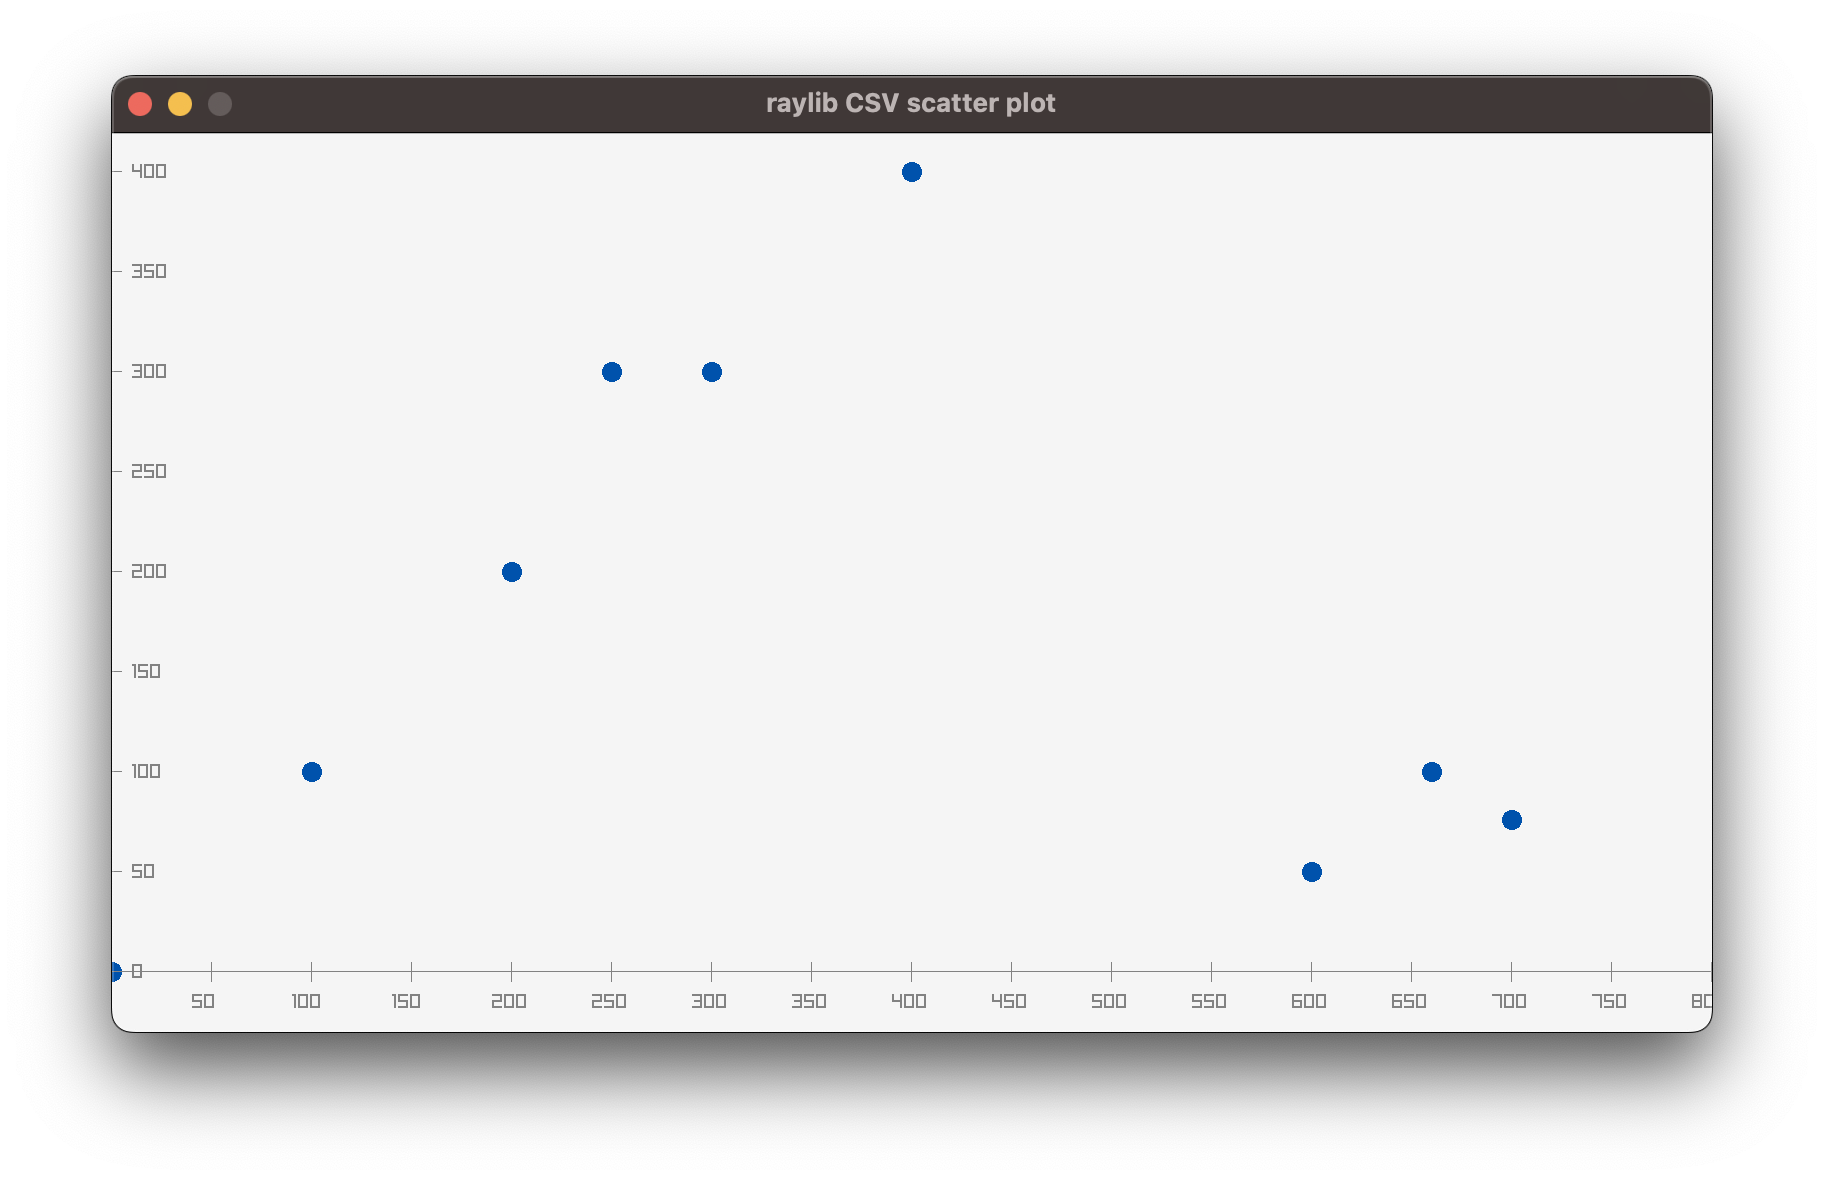
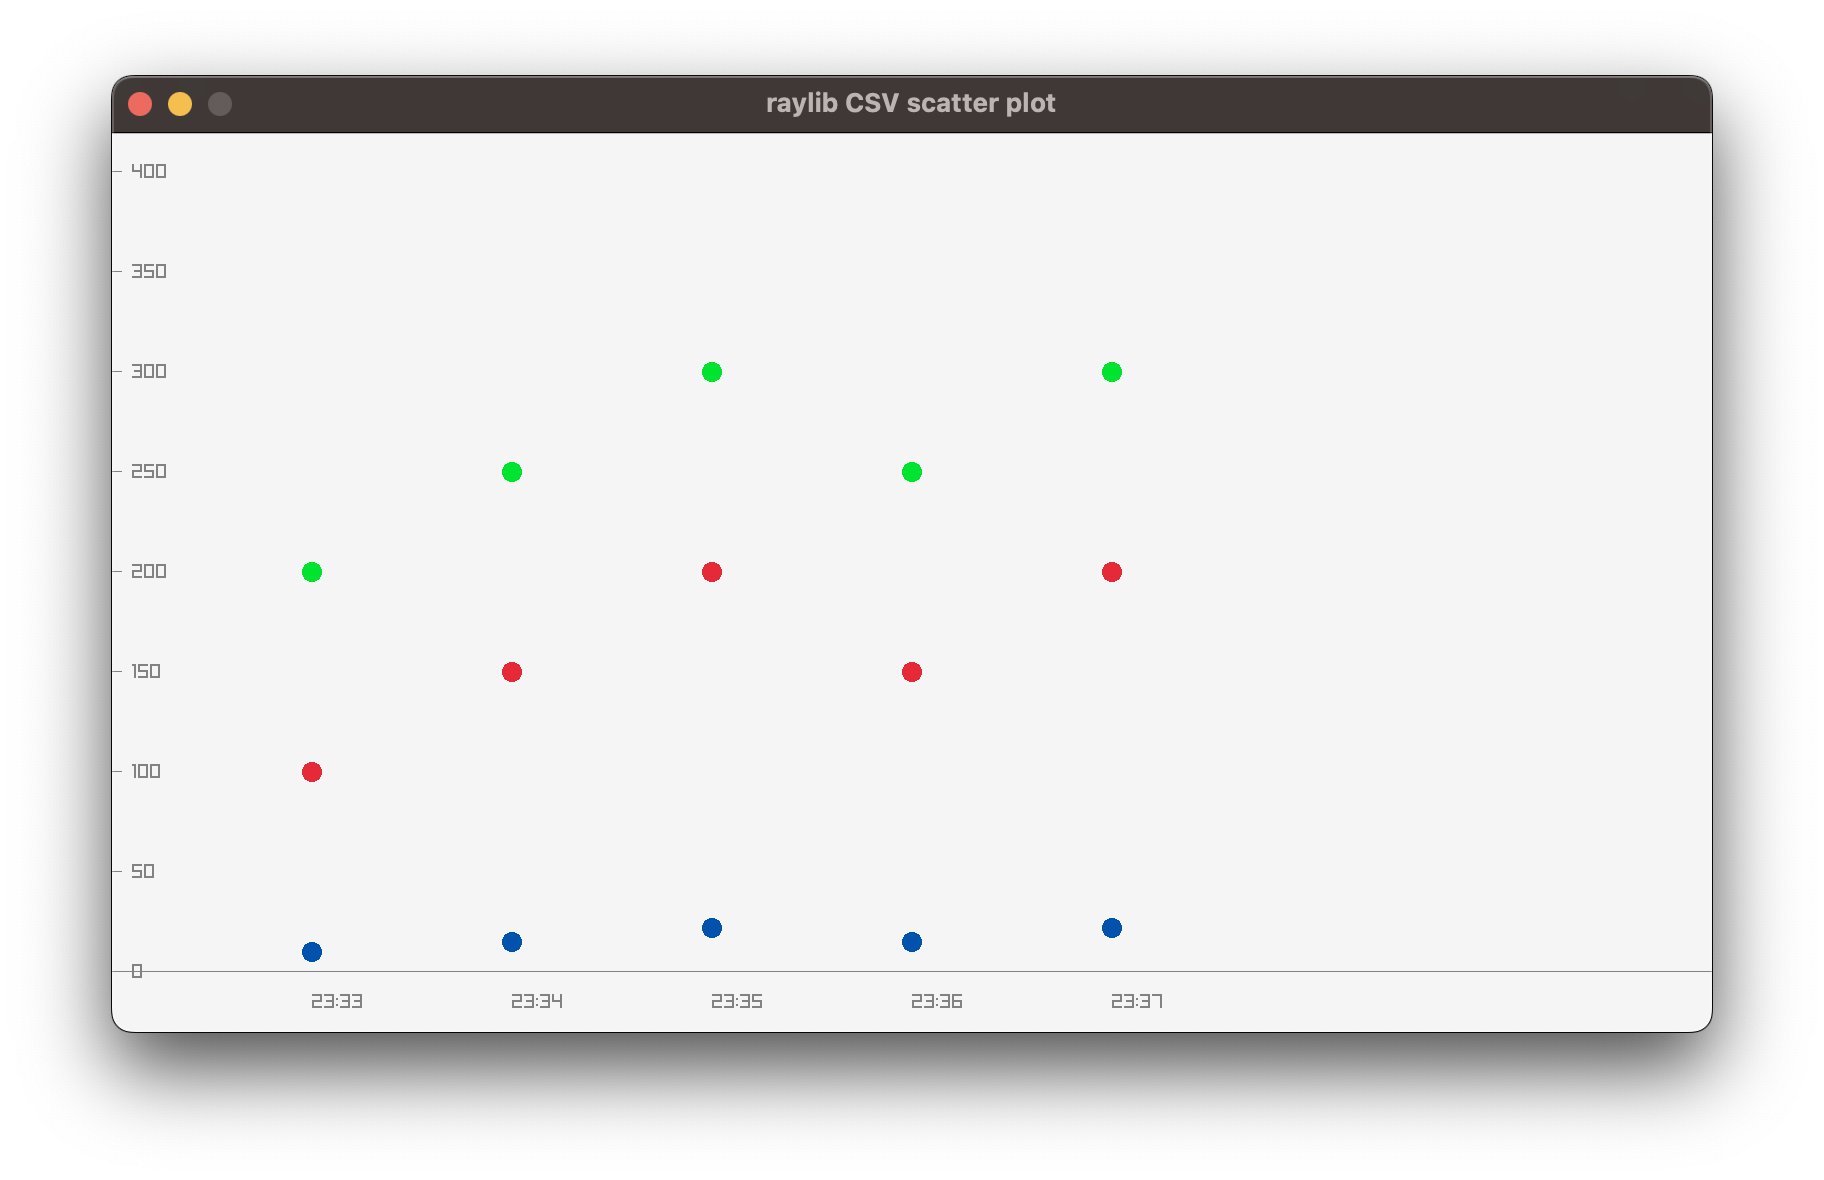
Add support for multi column CSV files

diff --git a/src/main.c b/src/main.c
@@ -5,11 +5,12 @@
 
 /**
  * @struct Point
- * @brief Represents a 2D point with x and y coordinates.
+ * @brief Represents a 2D point with x as timestamp and y-values.
  */
 typedef struct {
-    float x;
-    float y;
+    char x[25];
+    float* y_values;
+    int y_count;
 } Point;
 
 // Global variables to store the points and their count
@@ -28,27 +29,65 @@ void LoadCSVData(const char* filename) {
         return;
     }
 
-    char line[128];
-    fgets(line, sizeof(line), file); // Skip the header line
+    char line[512];
+    fgets(line, sizeof(line), file); // Read the header line
+    int columns = 0;
+    char* token = strtok(line, ",");
+    while (token) {
+        columns++;
+        token = strtok(NULL, ",");
+    }
+    printf("Detected %d columns in CSV.\n", columns);
 
     while (fgets(line, sizeof(line), file)) {
         Point point;
-        if (sscanf(line, "%f,%f", &point.x, &point.y) == 2) {
-            points = realloc(points, (pointsCount + 1) * sizeof(Point));
-            if (!points) {
-                perror("Failed to allocate memory");
-                fclose(file);
-                return;
-            }
-            points[pointsCount++] = point;
+        token = strtok(line, ",");
+        sscanf(token, "%*d-%*d-%*d %2s:%2s", &point.x[0], &point.x[3]);
+        point.x[2] = ':';
+        point.x[5] = '\0';
+        printf("Parsed timestamp: %s\n", point.x);
+
+        point.y_count = columns - 1;
+        point.y_values = (float*)malloc(point.y_count * sizeof(float));
+        if (!point.y_values) {
+            perror("Failed to allocate memory for y_values");
+            fclose(file);
+            return;
         }
+
+        for (int i = 0; i < point.y_count; i++) {
+            token = strtok(NULL, ",");
+            point.y_values[i] = atof(token);
+            printf("Parsed y_value[%d]: %f\n", i, point.y_values[i]);
+        }
+
+        points = realloc(points, (pointsCount + 1) * sizeof(Point));
+        if (!points) {
+            perror("Failed to allocate memory for points");
+            fclose(file);
+            return;
+        }
+        points[pointsCount++] = point;
     }
+    printf("Finished loading CSV data. Total points: %d\n", pointsCount);
     fclose(file);
+}
+
+void ClearPreviousData() {
+    printf("Clearing previous data...\n");
+    for (int i = 0; i < pointsCount; i++) {
+        free(points[i].y_values);
+    }
+    free(points);
+    points = NULL;
+    pointsCount = 0;
 }
 
 int main(void) {
     const int screenWidth = 800;
     const int screenHeight = 450;
+    const Color colors[] = {DARKBLUE, RED, GREEN, YELLOW, PURPLE, ORANGE, PINK, LIME, GOLD, DARKBROWN};
+    const int LABEL_SKIP = 1; // Display every label
 
     // Initialize raylib window
     InitWindow(screenWidth, screenHeight, "raylib CSV scatter plot");
@@ -57,8 +96,13 @@ int main(void) {
     while (!WindowShouldClose()) {
         // Check for file drop and load data
         if (IsFileDropped()) {
+            printf("File drop detected.\n");
+
+            ClearPreviousData(); // Clear any previously loaded data
+
             FilePathList droppedFilesList = LoadDroppedFiles();
             if (droppedFilesList.count > 0) {
+                printf("Loading file: %s\n", droppedFilesList.paths[0]);
                 LoadCSVData(droppedFilesList.paths[0]);
             }
         }
@@ -68,25 +112,31 @@ int main(void) {
         BeginDrawing();
         ClearBackground(RAYWHITE);
 
+        printf("Starting to draw scatter plot points...\n");
         // Draw the scatter plot points
         for (int i = 0; i < pointsCount; i++) {
-            DrawCircle(points[i].x, screenHeight - points[i].y - offset, 5, DARKBLUE);
+            for (int j = 0; j < points[i].y_count; j++) {
+                Color pointColor = colors[j % (sizeof(colors) / sizeof(colors[0]))];
+                DrawCircle((i + 1) * 100, screenHeight - points[i].y_values[j] - offset, 5, pointColor);
+            }
         }
+        printf("Finished drawing scatter plot points.\n");
+
+        printf("Starting to draw x-axis labels...\n");
+        // Draw x-axis labels with timestamps
+        for (int i = 0; i < pointsCount; i += LABEL_SKIP) {
+            Vector2 position = {(i + 1) * 100, screenHeight - offset + 10};
+            DrawTextEx(GetFontDefault(), points[i].x, position, 10, 1, GRAY);
+        }
+        printf("Finished drawing x-axis labels.\n");
 
         // Draw x and y axes
         DrawLine(0, screenHeight - offset, screenWidth, screenHeight - offset, GRAY);
         DrawLine(0, 0, 0, screenHeight - offset, GRAY);
 
         // Define scale parameters
-        int maxX = 800;
         int maxY = 450;
         int interval = 50;
-
-        // Draw x-axis scale
-        for (int i = 0; i <= maxX; i += interval) {
-            DrawLine(i, screenHeight - offset - 5, i, screenHeight - offset + 5, GRAY);
-            DrawText(TextFormat("%d", i), i - 10, screenHeight - offset + 10, 10, GRAY);
-        }
 
         // Draw y-axis scale
         for (int i = 0; i <= maxY; i += interval) {
@@ -94,11 +144,13 @@ int main(void) {
             DrawText(TextFormat("%d", i), 10, screenHeight - i - offset - 5, 10, GRAY);
         }
 
+        printf("Rendering frame...\n");
+
         EndDrawing();
     }
 
     // Cleanup
-    free(points);
+    ClearPreviousData();
     CloseWindow();
 
     return 0;
